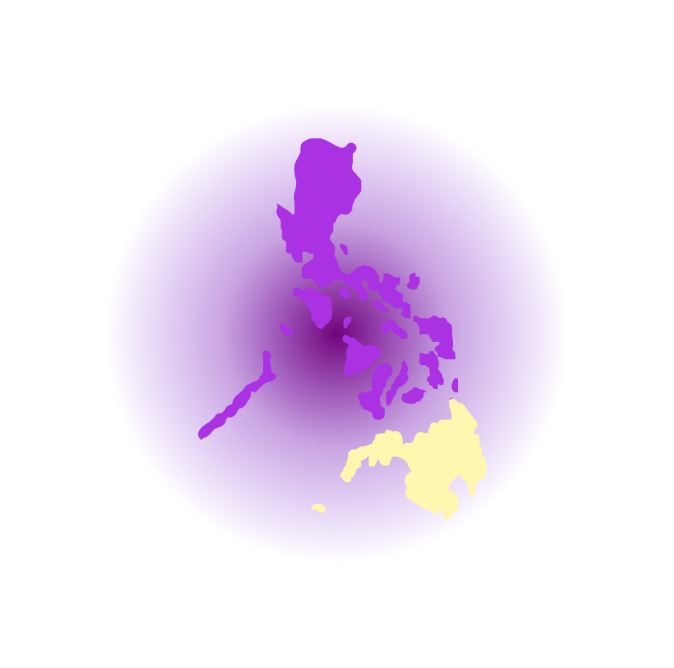
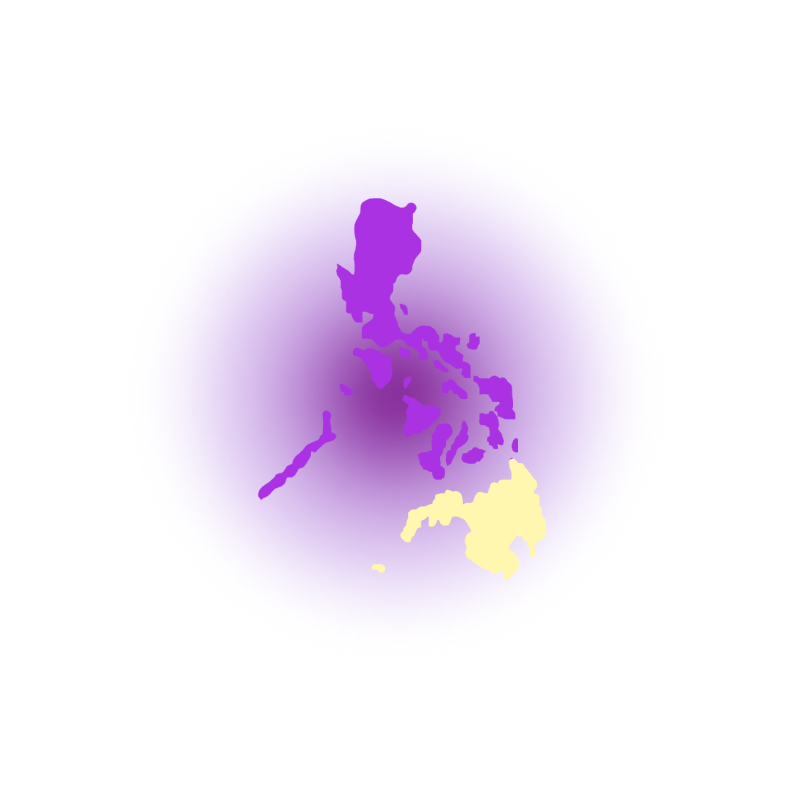
fixed title page

diff --git a/assets/css/main.css b/assets/css/main.css
@@ -7,15 +7,19 @@
 	Free for personal and commercial use under the CCA 3.0 license (html5up.net/license)
 */
 
+.part {
+	background-color: #1E1D53;
+}
+
 .blur {
-	filter: blur(15px);
+	filter: blur(25px);
 }
 .grid1 {
 	width: 100%;
 	display: grid;
 	gap: 0;
-	grid-template-columns: 1fr 1fr 1fr;
-	grid-template-rows: 3fr;
+	grid-template-columns: 1fr 1fr 1fr 1fr 1fr;
+	grid-template-rows: 1fr 1fr 1fr;
 	place-items: center;
 	/*border: 5px solid #DA2713;*/
 	min-height: 0;  /* NEW */
@@ -23,22 +27,30 @@
 }
 
 .bg-img1 {
-	width: 100%;
-	grid-area: 3 / 1;
+	width: 170%;
+	margin-left: -10em;
+	margin-bottom:-10em;
+	grid-area: 2 / 1/ span 2 / span 2;
 	overflow: hidden;  /* NEW */
     min-width: 0;      /* NEW; needed for Firefox */
 }
 
 .bg-img2 {
-	width: 100%;
-	grid-area: 1 / 3;
+	width: 170%;
+	margin-top: -25em;
+	grid-area: 1 / 4 / span 2 / span 2;
 	overflow: hidden;  /* NEW */
     min-width: 0;      /* NEW; needed for Firefox */
 }
 
 .title-text {
+	font-size: x-large;
+	background: -webkit-linear-gradient(left, #EE89FF, #F4FF74);
+    -webkit-background-clip: text;
+    -webkit-text-fill-color: transparent;
 	width: 100%;
-	grid-area: 2 / 2 / span 1/ span 1;
+	text-align: center;
+	grid-area: 1 / 2 / span 3/ span 3;
 	z-index: 2;
 }
 
@@ -48,9 +60,9 @@
 
 
 .title-img {
-	width: 50%;
+	width: 80%;
 	object-fit:contain;
-	grid-area: 2 / 2;
+	grid-area: 1 / 2/ span 3/ span 3;
 }
 
 /*-------------------------Overview Section---------------------*/
@@ -2226,8 +2238,6 @@ input, select, textarea {
 /* Wrappers */
 
 	.wrapper {
-		box-shadow: inset 0px 1px 0px 0px rgba(0, 0, 0, 0.05), inset 0px 2px 3px 0px rgba(0, 0, 0, 0.1);
-		padding: 8em 0 8em 0;
 		text-align: center;
 	}
 
@@ -2446,7 +2456,7 @@ input, select, textarea {
 		/* Articles */
 
 			#top {
-				padding: 8em 0;
+				padding: 0em 0;
 			}
 
 				#top .image {
@@ -2465,7 +2475,7 @@ input, select, textarea {
 
 			#top {
 				text-align: center;
-				padding: 5em 0;
+				padding: 0em 0;
 			}
 
 				#top .image {

diff --git a/index.html b/index.html
@@ -30,7 +30,7 @@
 				
 						<div class="grid1"><!--removed col stuff-->
 							<div class="title-text">
-								<h1>The Great Divide</h1>
+								<h1><strong>The Great Divide</strong></h1>
 							</div>
 							<div class="blur bg-img2"><img src="images/circle-bg.png" alt="" /></div>
 							<div class="blur bg-img1"><img src="images/circle-bg.png" alt="" /></div>
